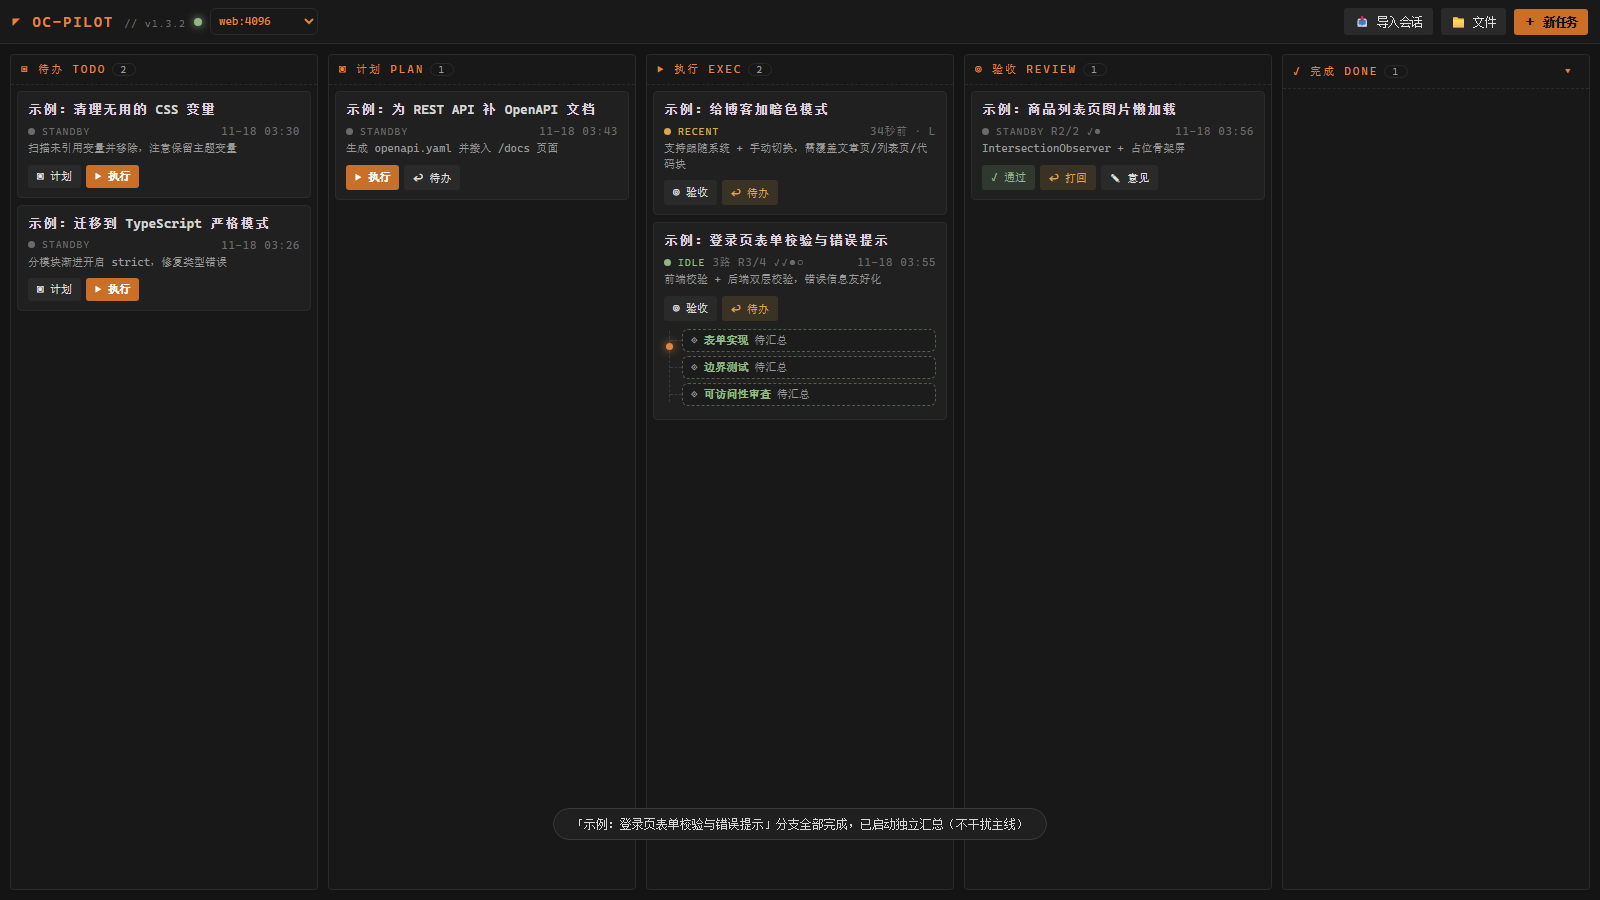
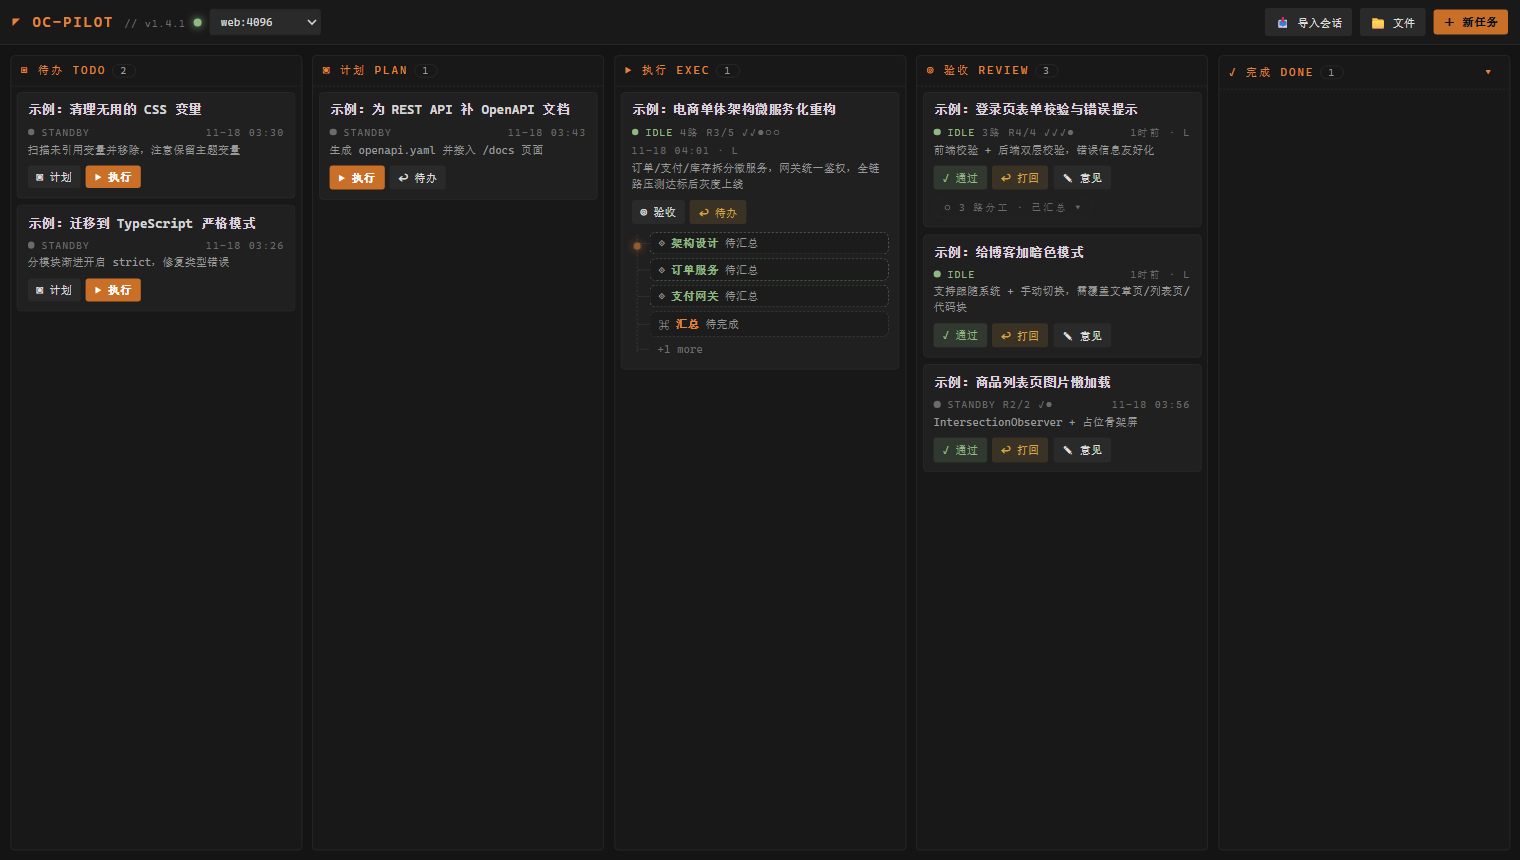
v1.4.2: showcase flow graph - complex demo task (4 branches + merge + 5-round acceptance), live-flow screenshot, README highlight section, board re-shot

diff --git a/tools/shots-flow.js b/tools/shots-flow.js
@@ -1,0 +1,48 @@
+const puppeteer = require('puppeteer-core');
+const BASE = 'http://127.0.0.1:4098/';
+const OUT = 'C:\\Users\\ROG\\opencode-pilot\\screenshots\\';
+(async () => {
+  const browser = await puppeteer.launch({
+    executablePath: 'C:\\Program Files (x86)\\Microsoft\\Edge\\Application\\msedge.exe',
+    headless: 'new', args: ['--disable-gpu', '--force-device-scale-factor=1.25']
+  });
+  const wait = (ms) => new Promise(r => setTimeout(r, ms));
+  const page = await browser.newPage();
+  await page.setViewport({ width: 1520, height: 860 });
+  await page.goto(BASE, { waitUntil: 'networkidle2', timeout: 20000 }).catch(()=>{});
+  await page.waitForFunction(() => window.S && S.tasks && S.tasks.demo_flow, { timeout: 20000 }).catch(()=>{});
+  await wait(1000);
+
+  // board re-shot (with the complex task visible)
+  await page.screenshot({ path: OUT + 'board.png' });
+  console.log('board ok');
+
+  // open flow task -> graph tab
+  await page.evaluate(() => { openDetail('demo_flow'); });
+  await wait(800);
+  await page.evaluate(() => {
+    // simulate sessions with todos
+    const mk = (id, title, todo) => { S.sessions[id] = { id: id, title: title, time: { updated: Date.now() }, _todo: todo }; };
+    const td = (cur, done, pend) => [].concat(
+      done.map(c => ({ content: c, status: "completed" })),
+      [{ content: cur, status: "in_progress" }],
+      pend.map(c => ({ content: c, status: "pending" }))
+    );
+    mk('ses_demo_main', '示例：电商重构 #主线', td('迁移订单表到独立库', ['梳理服务边界', '拆分领域模型'], ['灰度切流 5%']));
+    mk('ses_demo_f1', '#W1 架构设计', td('输出服务拆分决策记录', ['梳理服务边界'], ['评审修订']));
+    mk('ses_demo_f2', '#W2 订单服务', td('实现订单状态机', ['订单表迁移'], ['对外 API 收口']));
+    mk('ses_demo_f3', '#W3 支付网关', td('支付回调幂等改造', ['渠道抽象层'], ['对账任务']));
+    mk('ses_demo_f4', '#W4 全链路压测', td('压测脚本 5k QPS 调通', ['环境搭建'], ['瓶颈分析报告']));
+    // active: main + f2 + f3 + f4 running, f1 done
+    ['ses_demo_main', 'ses_demo_f2', 'ses_demo_f3', 'ses_demo_f4'].forEach(id => S.liveUntil[id] = Date.now() + 600000);
+    document.querySelector('#tabs [data-t="graph"]').click();
+    renderGraphView._sig = '';
+    renderGraphView();
+  });
+  await wait(700);
+  await page.evaluate(() => { document.getElementById('ovbody').scrollTop = 0; });
+  await wait(300);
+  await page.screenshot({ path: OUT + 'flow-graph.png' });
+  console.log('flow-graph ok');
+  await browser.close();
+})();

diff --git a/public/index.html b/public/index.html
@@ -363,7 +363,7 @@ main{flex:1;overflow:hidden;display:flex}
 <body>
 <div id="app">
   <header>
-    <div class="brand">◤ OC-PILOT <small id="ver">// v1.4.1</small></div>
+    <div class="brand">◤ OC-PILOT <small id="ver">// v1.4.2</small></div>
     <div id="dot"></div>
     <select id="bk"></select>
     <span style="flex:1"></span>

diff --git a/README.md b/README.md
@@ -67,6 +67,18 @@ oc-pilot：任务有明确生命周期，每个阶段有门禁——
 | **休眠唤醒自愈** | 电脑睡眠/断网恢复后，SSE 看门狗 25 秒内重连，被中断的 Agent 自动续跑 |
 | **Agent 生命周期** | 分工完成后归档折叠，任务完成收编，看板永远清爽 |
 
+
+### ⚡ 执行流程图（亮点）
+
+每个任务一张**实时流程图**：主线、多路分工、汇总、验收链的拓扑与进度一目了然——
+
+![flow](screenshots/flow-graph.png)
+
+- **节点即进度**：每个节点显示当前执行到哪一步（🎯 进行中的 todo），状态呼吸点区分 运行/完成/待触发
+- **虚线 = 并行派发/汇报，实线 = 固定流转**：主线怎么分工、成果汇到哪、验收走到第几轮，一眼看懂
+- **活跃通道流动光点**：正在执行的 Agent 之间的连线有光效流动，卡片堆里谁在干活瞬间可辨
+- **点节点直达**：主线/分工/汇总节点点击进入对应会话，验收节点进入验收流水线
+
 ### 4. 从「坐在电脑前」到「手机远程」
 
 - 手机 App（横屏全屏）通过 Tailscale 直连，看板/对话/验收全功能
